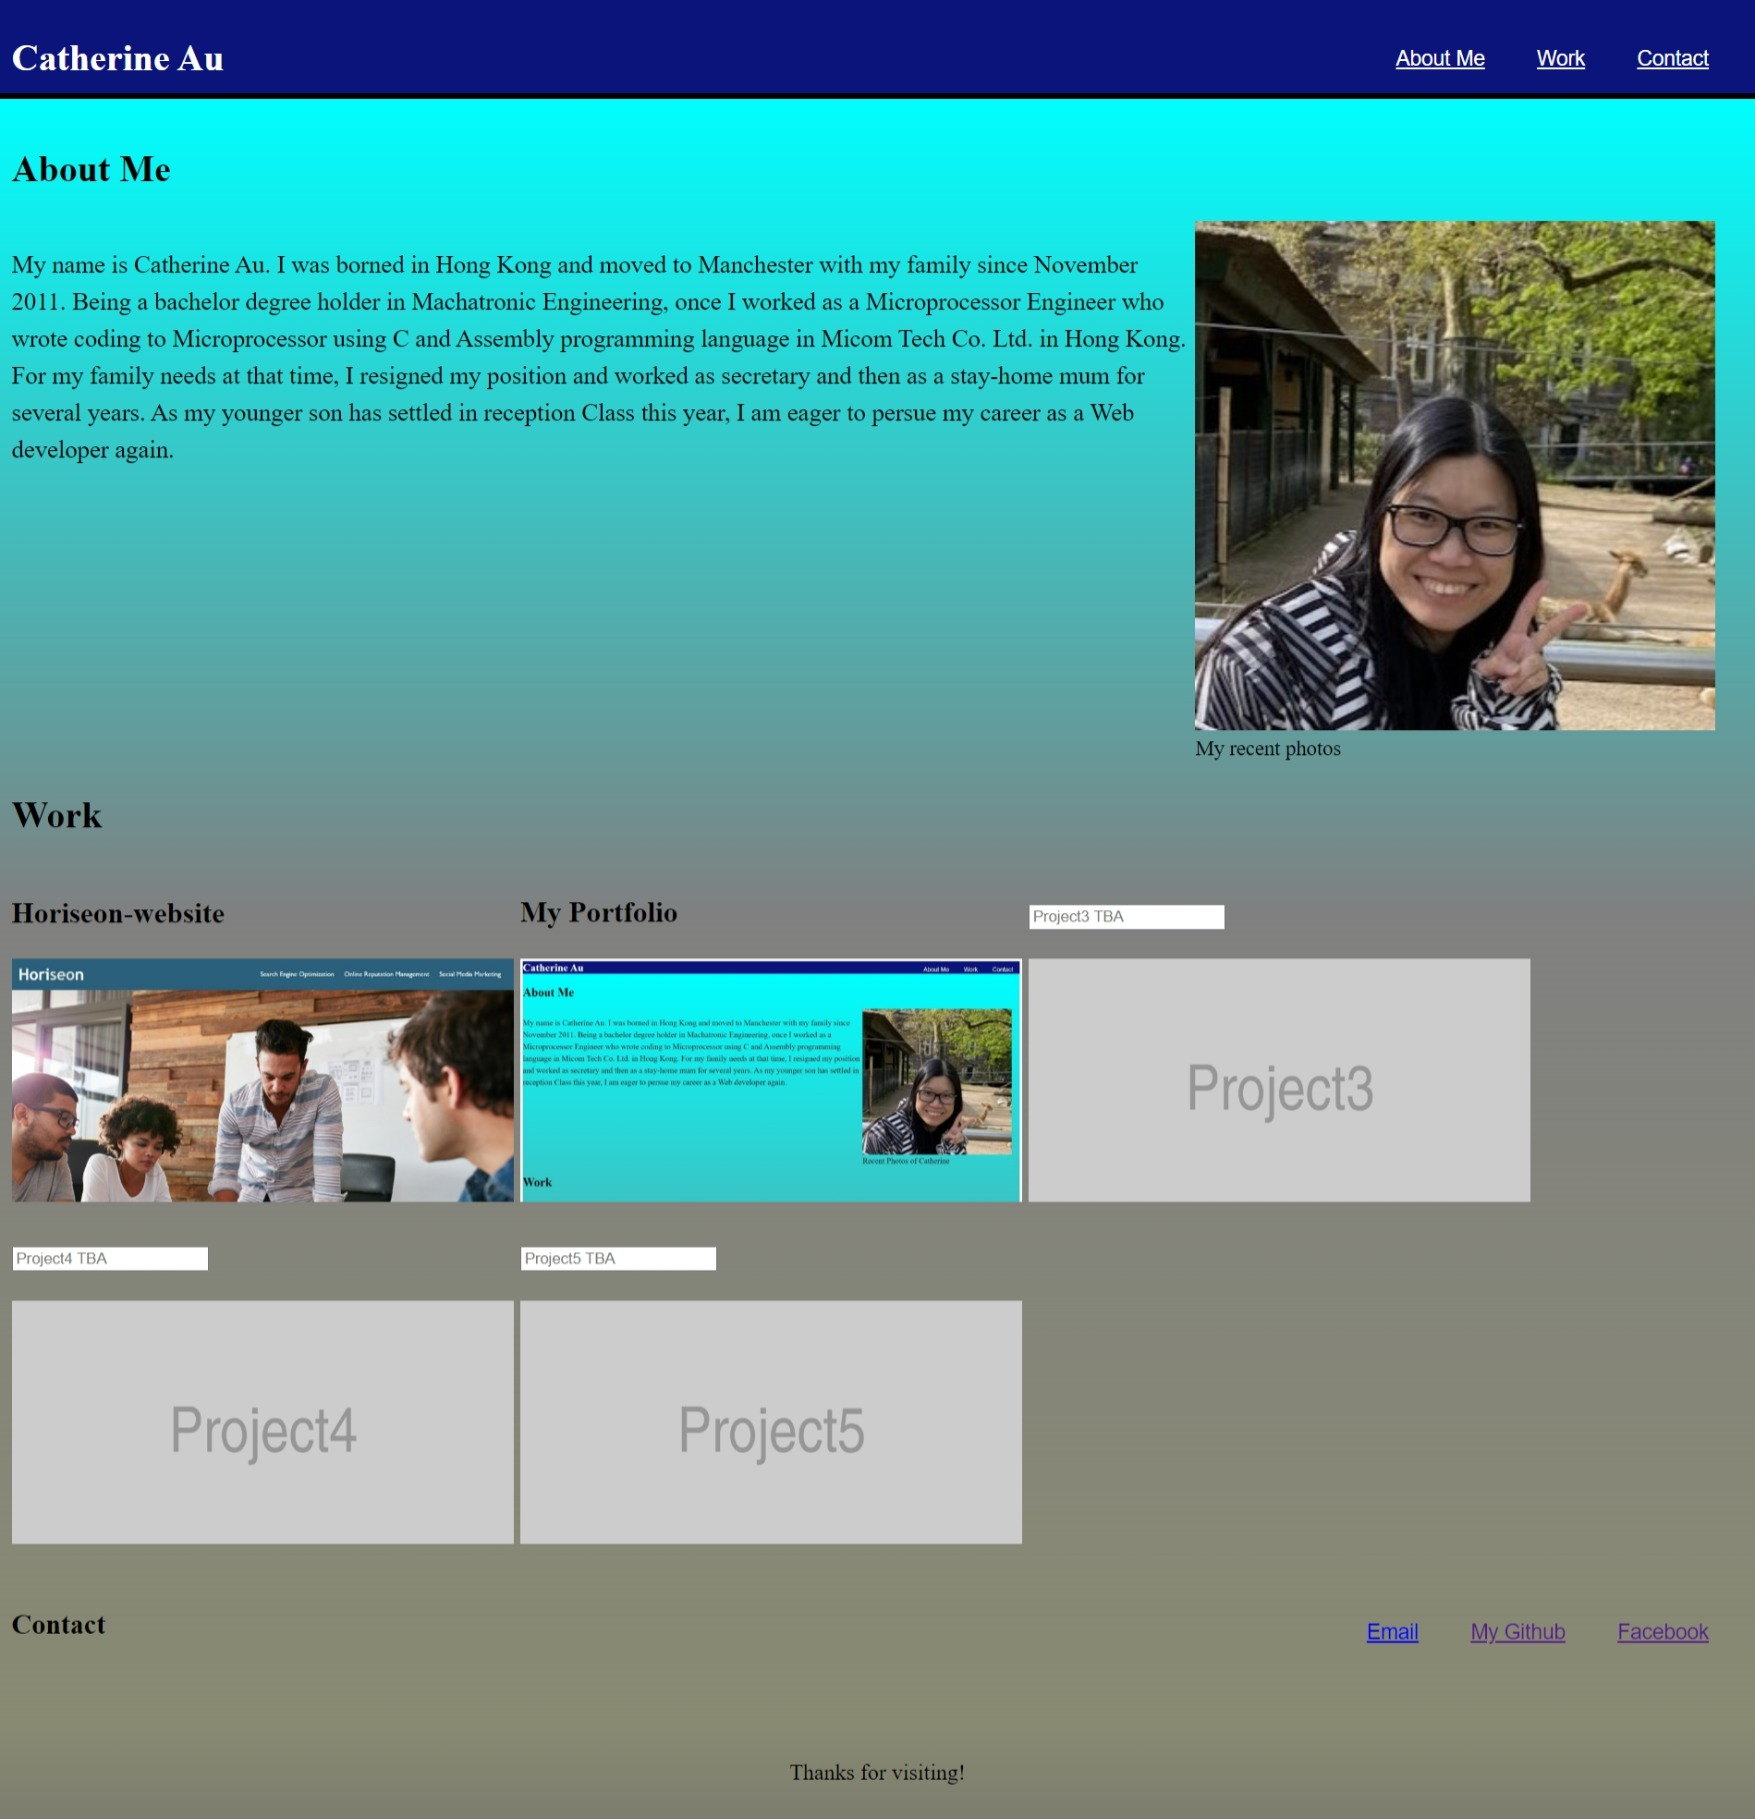
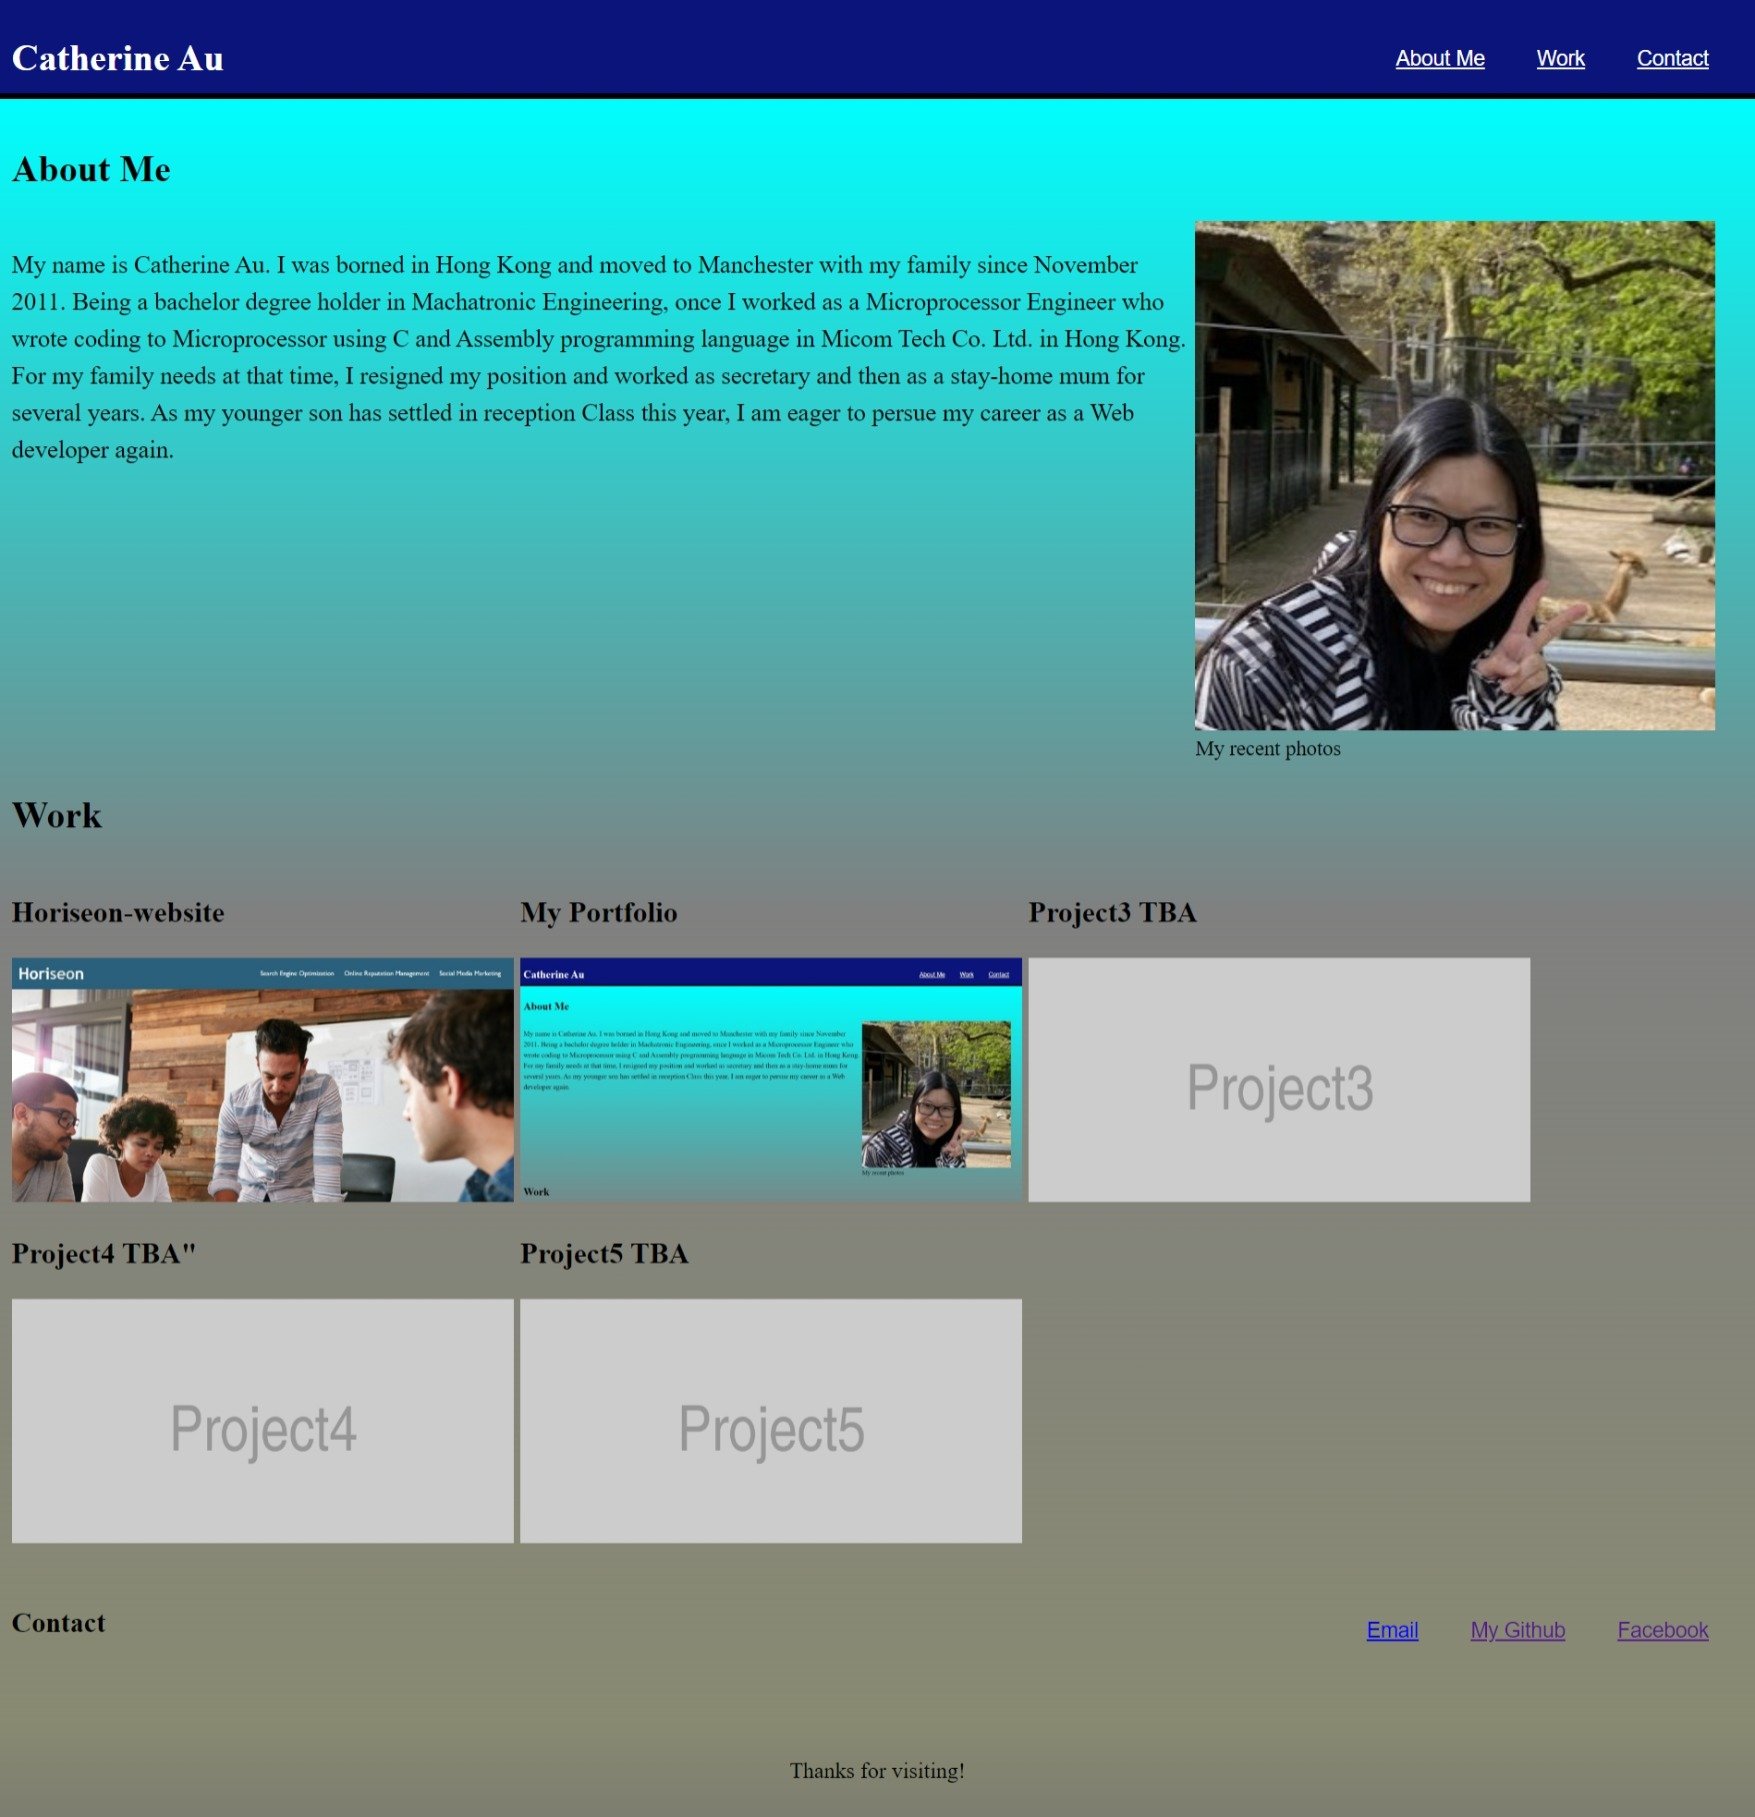
smooth scroll behaviour added

diff --git a/index.html b/index.html
@@ -51,21 +51,21 @@
         </div>
 
         <div id="Project3" Class="WorkProject">
-          <h3><input type="text" name="fname" placeholder="Project3 TBA"></h3>
+          <h3>Project3 TBA</h3>
           <a href="https://placeholder.com/">
             <img src="https://via.placeholder.com/1755x851?text=Project3" alt="placeholder Project3 TBA">
           </a>
         </div>
 
         <div id="Project4" Class="WorkProject">
-          <h3><input type="text" name="fname" placeholder="Project4 TBA"></h3>
+          <h3>Project4 TBA</h3>
           <a href="https://placeholder.com/">
             <img src="https://via.placeholder.com/1755x851?text=Project4" alt="placeholder Project4 TBA">
           </a>
         </div>
 
         <div id="Project5" Class="WorkProject">
-          <h3><input type="text" name="fname" placeholder="Project5 TBA"></h3>
+          <h3>Project5 TBA</h3>
           <a href="https://placeholder.com/">
             <img src="https://via.placeholder.com/1755x851?text=Project5" alt="placeholder Project5 TBA">
           </a>

diff --git a/assets/css/style.css b/assets/css/style.css
@@ -7,6 +7,10 @@
  
 }
 
+html{
+  scroll-behavior: smooth;
+}
+
 body {
   margin:0%;
   min-width: 375px;
@@ -135,6 +139,8 @@ figcaption {
   text-decoration: underline;
 }
 
+/*setting of footer section*/
+
 footer {
   display: flex;
   justify-content: center;
@@ -143,7 +149,7 @@ footer {
   background-image: linear-gradient(var(--bkgbrown),rgba(34, 35, 11, 0.589));
 }
 
-
+/*Media Queries Setting*/
 @media screen and (max-width:555px){
   header {
     flex-direction: column;
@@ -154,13 +160,9 @@ footer {
   #selfdescription p{
     line-height: 1;
   }
-}
 
-
-@media screen and (max-width:555px){
   .WorkProject:hover {
     width:35%;
     cursor: pointer;
    }
-
 }
